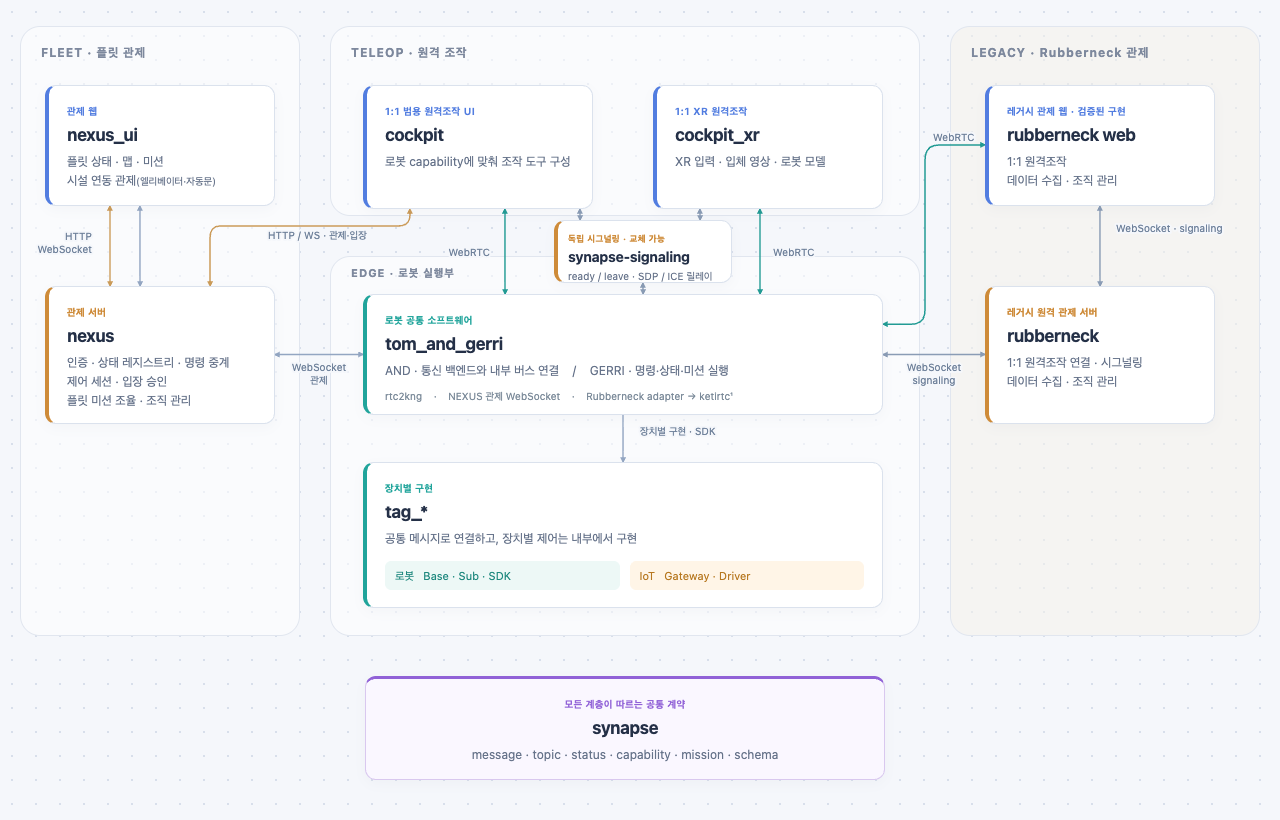
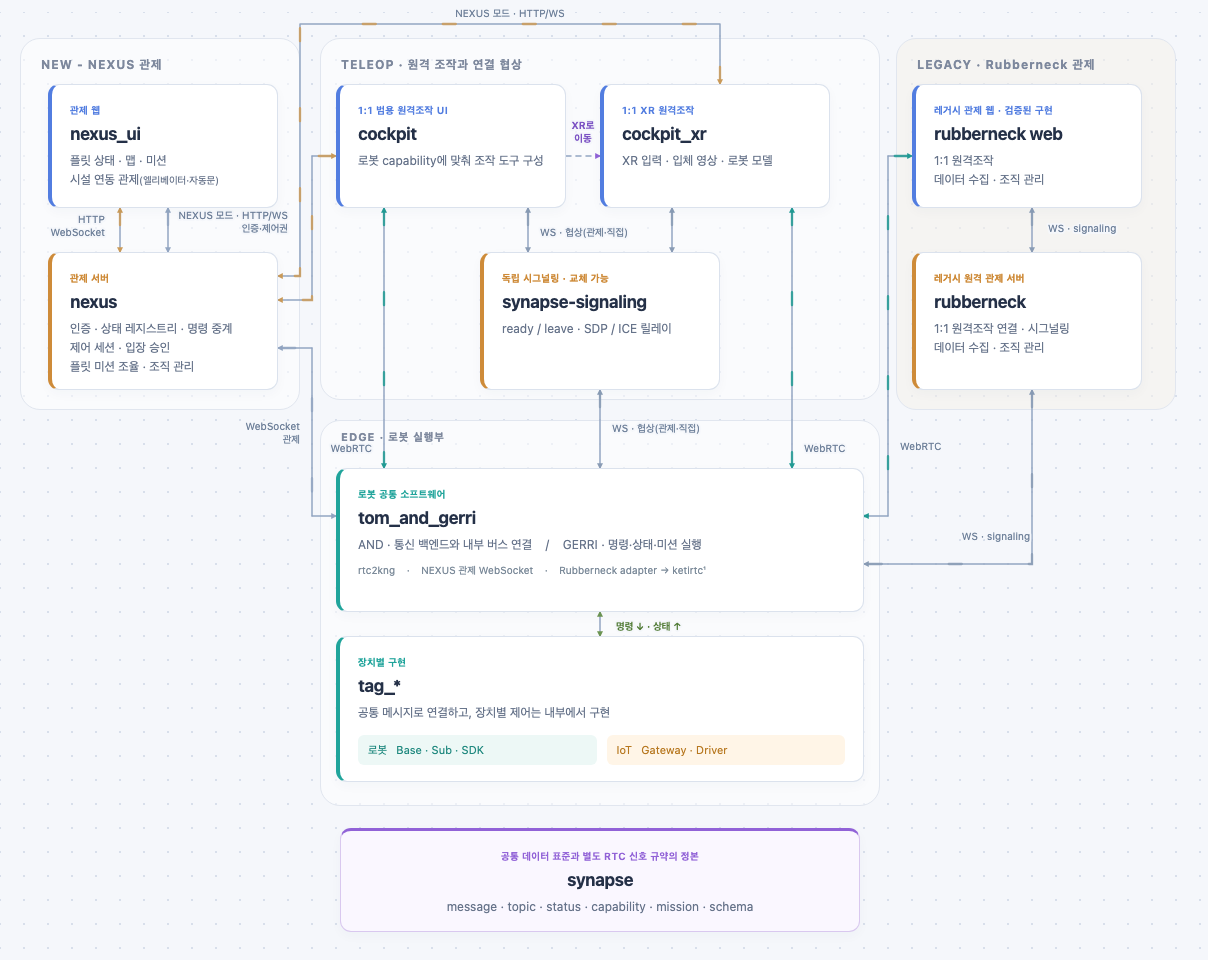
조직 아키텍처 입구와 최신 요약 미리보기 갱신
공개 요약 그림과 같은 구도의 SVG·PNG를 게시하고 인증된 Architecture Studio 직접 링크를 추가한다.

diff --git a/profile/README.md b/profile/README.md
@@ -20,7 +20,7 @@
 
 ## 아키텍처
 
-**[인터랙티브 아키텍처 보기 →](https://keti-synapse.github.io/architecture.html)** · 통신 흐름과 공통 계약을 살펴보세요.
+**[인터랙티브 아키텍처 보기 →](https://keti-synapse.github.io/architecture.html)** · 통신 흐름과 공통 계약을 살펴보세요. **[Architecture Studio에서 자세히 보기 →](https://rockcraft.xyz/architecture-studio/)**
 
 [![SYNAPSE 아키텍처](https://raw.githubusercontent.com/keti-synapse/.github/main/profile/docs/architecture-preview.png)](https://keti-synapse.github.io/architecture.html)
 
